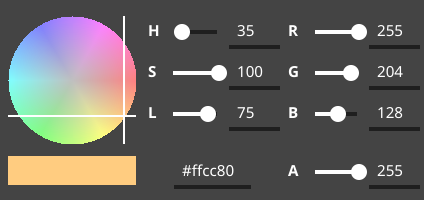
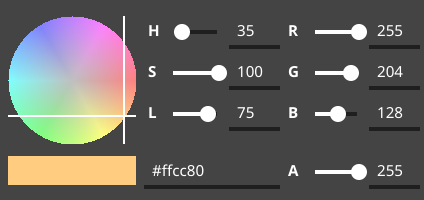
Fix color dialog layout for entries that shrink

Changed region(s): [[0.3373, 0.81, 0.5519, 0.96], [0.5825, 0.9, 0.6745, 0.96]]

diff --git a/dialog/color_picker.go b/dialog/color_picker.go
@@ -186,7 +186,7 @@ func (p *colorAdvancedPicker) CreateRenderer() fyne.WidgetRenderer {
 					preview,
 				),
 			),
-			fyne.NewContainerWithLayout(layout.NewCenterLayout(), hex),
+			hex,
 			alphaChannel,
 		),
 	))
